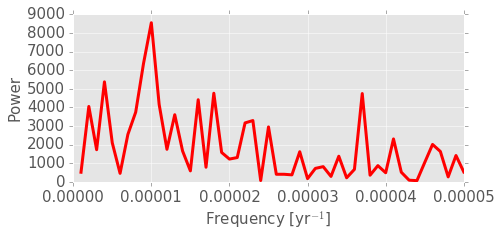
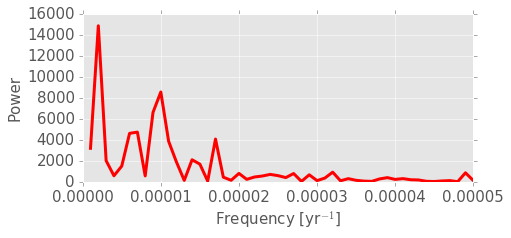
lapto

diff --git a/SOAC/Exercise1/General_SOAC_Ex1_Part2.py b/SOAC/Exercise1/General_SOAC_Ex1_Part2.py
@@ -5,9 +5,49 @@ import statsmodels.tsa.stattools as stat
 import matplotlib
 from numpy.linalg import inv
 matplotlib.style.use('ggplot')
+import csv
 
-#Constants
-tmax=3600.*24.
+#Read data
+f = open('C:\Users\Mark\Documents\Studie\Study20162017\SOAC\Exercise1\Data.csv', 'r')
+data=[]
+#for line in f:
+#    data.append(line)
+
+
+with open('C:\Users\Mark\Documents\Studie\Study20162017\SOAC\Exercise1\Data.csv', 'rb') as csvfile:
+    spamreader = csv.reader(csvfile, delimiter=',')
+    for row in spamreader:
+        data.append(row)
+
+timevec=np.zeros(len(data))
+dayvec=np.zeros(len(data))
+hourvec=np.zeros(len(data))
+dpdxvec=np.zeros(len(data))
+dpdyvec=np.zeros(len(data))
+u0vec=np.zeros(len(data))
+v0vec=np.zeros(len(data))
+dpdxmvec=np.zeros(len(data))
+u0mvec=np.zeros(len(data))
+v0mvec=np.zeros(len(data))
+for i in range(0,len(data)):
+    timevec[i]=data[i][0]
+    dayvec[i]=data[i][1]
+    hourvec[i]=data[i][2]
+    dpdxvec[i]=data[i][3]
+    dpdyvec[i]=data[i][4]
+    u0vec[i]=data[i][5]
+    v0vec[i]=data[i][6]
+    if i>23:
+        dpdxmvec[i]=data[i][7]
+        u0mvec[i]=data[i][8]
+        v0mvec[i]=data[i][9]
+
+timevec=timevec*3600.
+dpdxvec=dpdxvec/1000.
+dpdyvec=dpdyvec/1000.
+
+#%%Constants
+tmax=169201.
 u0=0.
 v0=0.
 dt=1.
@@ -18,7 +58,7 @@ A=0.001 # amplitude in pressure variation per dx
 B=0.
 R = 	287.058 #gas constant
 def rho(p,T): # p in hPa
-    return p/(R*T)*100
+    return p/(R*T)*100.
 rhoc= 1.225#density at 288 K, sea level
 phi=0#-60./360.*2.*np.pi
 c1=-A*f/(rhoc*(f**2-omega**2))
@@ -30,6 +70,26 @@ vvec=np.zeros(np.int(tmax/dt))
 uvec=np.zeros(np.int(tmax/dt))
 tvec=np.zeros(np.int(tmax/dt))
 
+#%%Afschatten A
+tvec=[]
+for t in range(0,np.int(tmax/dt)):
+    tvec.append(t)
+
+Epvec=[]
+for TryA in np.linspace(0,0.002,10):
+    pgradx=[]
+    for t in range(0,np.int(tmax/dt)):
+        pgradx.append(A*np.cos(omega*t+phi))
+    
+    Epvec.append(np.sum((pgradx[0:169201:3600]-dpdxvec)**2))
+
+
+plt.figure(num=None, figsize=(7,3),dpi=150, facecolor='w', edgecolor='k')
+plt.plot(tvec,pgradx, 'b-',linewidth=2)
+plt.plot(timevec,dpdxvec, 'b--',linewidth=2)
+plt.ylabel(r'$\frac{\partial p}{\partial x}$ [hPa m$^{-1}$]',fontsize=15)
+plt.xlabel('Time [s]',fontsize=15)
+plt.tick_params(axis='both', which='major', labelsize=10)
 #%%Calculations
 for t in range(0,np.int(tmax/dt)):
     pgrady=0.
@@ -55,7 +115,8 @@ Ev=sum((np.array(vanalyt)-np.array(vvec))**2)
 #%%Plots
 plt.figure(num=None, figsize=(7,3),dpi=150, facecolor='w', edgecolor='k')
 plt.plot(tvec,uvec, 'r-',linewidth=2)
-plt.plot(tvec,uanalyt, 'r--',linewidth=2)
+#plt.plot(tvec,uanalyt, 'r--',linewidth=2)
+plt.plot(timevec,u0vec, 'r--',linewidth=2)
 plt.ylabel(r'U [ms$^{-1}$]',fontsize=15)
 plt.xlabel('Time [s]',fontsize=15)
 plt.tick_params(axis='both', which='major', labelsize=10)

diff --git a/MAIO/Exercise2/General.py b/MAIO/Exercise2/General.py
@@ -61,14 +61,14 @@ for i in range(1,len(timevec)):
 readvec=sawvec
 freqvec=np.linspace(0,0.00005,51)
 
-#Create saw tooth with 5 frequencies
-sinevec2=[]
-timevec=np.linspace(0, 1000000,1001)
-for i in timevec:
-    sinevec2.append(np.sin(i*2*np.pi/100000.)-0.5*np.sin(i*2*np.pi/100000.*2.)+0.25*np.sin(i*2*np.pi/100000.*3.)-0.125*np.sin(i*2*np.pi/100000.*4.))
-
-readvec=sinevec2
-freqvec=np.linspace(0,0.00005,51)
+##Create saw tooth with 5 frequencies
+#sinevec2=[]
+#timevec=np.linspace(0, 1000000,1001)
+#for i in timevec:
+#    sinevec2.append(np.sin(i*2*np.pi/100000.)-0.5*np.sin(i*2*np.pi/100000.*2.)+0.25*np.sin(i*2*np.pi/100000.*3.)-0.125*np.sin(i*2*np.pi/100000.*4.))
+#
+#readvec=sinevec2
+#freqvec=np.linspace(0,0.00005,51)
 
 
 #%% Exercise D
@@ -103,9 +103,9 @@ for i in range(1,len(timevec)):
         period=100000.+wavelengthchooser*20000.
 
 for i in range(0,len(sawvec)):
-    sawvec[i]=sawvec[i]+np.random.normal(0,1)
+    sawvec[i]=sawvec[i]+np.random.normal(0,0.5)
 
-readvec=np.array(sawvec)-np.array(sinevec)
+readvec=np.array(sawvec)
 freqvec=np.linspace(0,0.00005,51)
 
 #%% Exercise andere e
@@ -122,7 +122,7 @@ for i in range(1,len(timevec)):
         sawvec.append(0)
         wavelengthchooser=np.random.choice([-1,0,1])
         period=100000.+wavelengthchooser*20000.
-        amplitude=1.+np.random.normal(0,0.3)
+        amplitude=1.+np.random.normal(0,0.8)
 
 readvec=np.array(sawvec)
 freqvec=np.linspace(0,0.00005,51)
